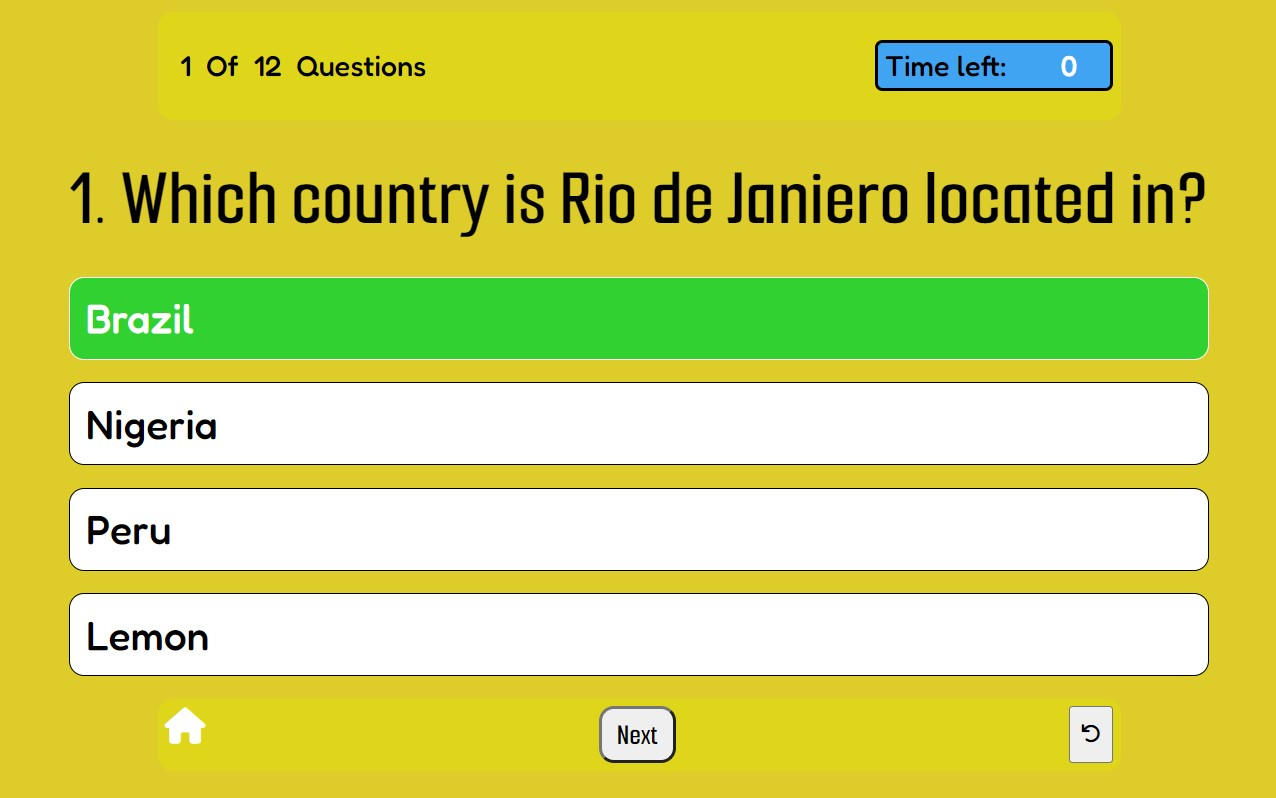
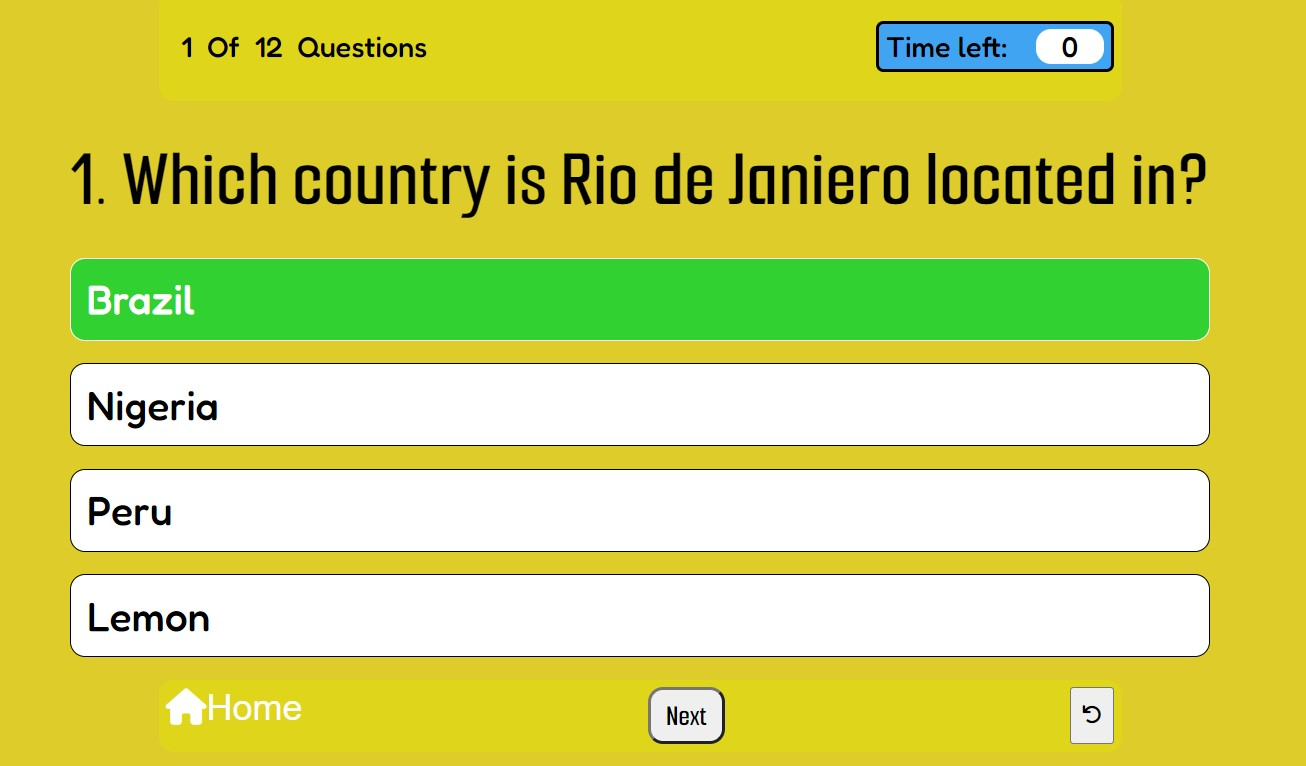
Pushing readME

diff --git a/game.html b/game.html
@@ -35,17 +35,17 @@
             </div>
         </div>
         <div class="home-next-restart">
-            <a href="index.html"><i class="fa-solid fa-house"></i></a>
+            <a href="index.html" aria-label="Go back to home page"><i class="fa-solid fa-house"></i>Home</a>
             <span>
                 <button class="next-button">Next</button>
             </span>
-            <button alt="Arrow going anti-clockwise, to restart the game" class="restart-button"><i class="fa-solid fa-arrow-rotate-left"></i></button>
+            <button aria-label="Arrow going anti-clockwise, to restart the game" class="restart-button"><i class="fa-solid fa-arrow-rotate-left"></i></button>
         </div>
     </div>
 
     <!-- Results box-->
     <div class="result-box">
-        <div class="icon" alt="Small house display, take user back to home page">
+        <div class="icon">
             <i class="fas fa-crown"></i>
         </div>
         <div class="complete-text">You've Completed the quiz!</div>

diff --git a/assets/css/styles.css b/assets/css/styles.css
@@ -175,9 +175,10 @@ a {
     padding: 5px 10px;
     display: none;
     font-family: Smooch Sans;
+    cursor: pointer;
 }
 
-#restart-button:hover {
+.restart-button:hover {
     cursor: pointer;
 }
 
@@ -289,6 +290,7 @@ a {
 .end-game-buttons button:hover {
     background-color: black;
     color: white;
+    cursor: pointer;
 }
 
 /*Responsive design for screen sizes*/

diff --git a/README.md b/README.md
@@ -1,46 +1,83 @@
-# Flags Of South America
+# Countries Of South America
 
-Flags of South America will test people's knowledge on countries of South America. In the game there are 12 points to collect, 12 countries in South America, and you will earn these points by getting the answers right. When you start playing the game a flag will appear that you will have to guess, if you get the answer right, you will earn a point and will be able to move on to the next question, the goal is to get as many points as you can. There will be a timer, so users can test themselves by seeing who can finish the game the quickest with the highest points.
+'Countries of South America' will test people's knowledge on countries of South America. In the game there are 12 points to collect, 12 countries in South America, and you will earn these points by getting the answers right. As soon as you start playing the game a quesition that relates to the answer/country will appear, you have to guess which country we are describing or asking you about. If you get the answer right, you will earn a point and will be able to move on to the next question, the goal is to get as many points as you can. There will be a timer, so users can test themselves by seeing who can finish the game the quickest with the highest points.
+
+![Am I responsive picture](assets/images/amiresponsive-country-game.jpeg)
 
 ## Objective
-This site is targeted to people who love to test their knowledge, have an interest in geography and especially those who have an interest in the South American countries.
+<li>This site is targeted to people who love to test their knowledge, have an interest in geography and especially those who have an interest in the South American countries.</li>
 
-You can view the live link here - "add website link here when completed"
-
-"Input Am I responsive picture of the game"
+<li>You can view the live link here - "add website link here when completed"</li>
 
 ## Features
 <hr>
 
 ### <u>Home page</u>
+<ul>
+<li>In this page you have the name of the game in red, this will instantly give the user an idea of what the game is about. There will be an input where users can enter their names to be able to play the game and record there scores,  there will be a 'Play Game' button to be able to start the game.</li> 
+<li>Below these features there will be a 'Rules of The Game', if you press on this button a box with the rules will appear on the screen, this will contain the rules and explain to users how the game works, how earn points and how to complete the game, and if they want, they can also quit or restart the game.<li>
 
-In this page you have the name of the game in red, this will instantly give the user an idea of what the game is about. There will be an input where users can enter their names to be able to play the game and record there scores,  there will be a 'Play Game' button to be able to start the game. 
-Below these features there will be a 'Rules of The Game' where users will be able to navigate to the rules section. They will be able to see how they will earn points, the different types of features that will be within the game, for instance the 30 second timer, there will be a sound toggle button where users can have a game with sound or no sound at all. This area will tell them exactly what these features will do.
-The next feature is the highscore button, this button will take users to see all the highscores within the game, users need to play in order to build highscores, the first time they select the button there will be no content.
-
-<img src="assets/images/home-screen-phone.jpeg" height="400" width="200"/>
-
+![Home page appearance on a laptop](assets/images/laptop-main-page.jpg)
+![Home page appearance on a mobile](assets/images/home-page-mobile.jpg)
 
 ### <u>Within the Game</u>
 
-In this area there will be a score counter, a timer and a hints section. The score will keep track of how many correct answer the user has got, each correct answer will cause the score to increment by one.
+<li>In this area the game will keep track of what question the user is on, there will be a timer that will make it feel like quiz, this will add more pressure to the game, it is going to be a 15 second timer, when the timer hits 0 the correct answer will be revealed, options will be disabled and user will have to move on to the next question.</li>
 
-The timer will be there to make it feel like and actual quiz game, add more pressure to the game, it is going to be a 30 second timer and at the end of the game it will tell the users exactly how long it took them to complete the game. Users can challange themselves and try and beat their previous score AND time.
+![](assets/images/question-timer.jpg)
 
-The third feature in this little assist bar will be the hints button, this will provide a small hint to be able to point users to the correct answer, for example, if the answer was Argentina, a hint will be related to Lionel Messi, and hopefully these lil hints can point users to the correct answer.
+<li>In this area there is going to be the question AND the options that users will be able to select from, users will have to read the question and guess which country they are being asked about or which country is being described.</li>
+<li>Users can hover over the question, the cursor will become a pointer on the options they can select, the color of he boxes will also change.</li>
 
+![Questions and options](assets/images/question-area-laptop.jpg)
+
+
+<li>After users select their answer, the options will be disabled and they can only select  home, restart or the next question. Pointer will get disabled.</li> 
+<li>If the user select the correct answer then their option will turn green, next button will appear</li>
+
+![Users option turns green](assets/images/select-correct-answer.jpg)
+
+
+<li>This is the mobile verison of the game, when answer is correct it turns green, will act the same as on the laptop</li>
+
+![QUestions and options of the game on a mbile screen](assets/images/game-mobile-version.jpg)
+
+<li>If users select the wrong answer then their answer will turn red, and the correct answer will appear green</li>
+
+![User option turns red when wrong and corret answer turns green](assets/images/wrong-answer-laptop.jpg)
+
+<li>If user does not manage to beat the time then options will get disabled and correct answer will turn green</li>
+
+![Correct answer turns green automatically when user cannot answer withing 15 secons](assets/images/time-run-out-laptop.jpg)
+
+
+<li>In this part of the game there will be a Home button, a next question button and the Restart button.</li>
+<li>The home button feature will be there incase the user wants to quit the game or to look at the rules again</li>
+<li>The 'next' question button will only appear after the user has selected an answer, they won't be able to skip the question, this button will move on to the next question.</li>
+<li>The restart feature will restart the game from question one, this will not take the user to the home screen
+</ul>
+
+![Here will a nav bar with a home button, next button and restart button](assets/images/home-next-retart-bar-laptop.jpg)
+
+<li>After question is selected next button will appear</li>
+
+![Here will a nav bar with a home button, next button and restart button](assets/images/home-next-retart-bar-laptop2.jpg)
+
+<li>When all question have been answered a results box will appear on top of the questions with how many correct answers you got, and then two buttons at the bottom, one to go to the home page or to restart the game and play the game again</li>
+
+![Results box with number of correct answers users scored](assets/images/results-box-end-game.jpg)
+
+<li>This is how the results will appear on a mobile device</li>
+
+![Results box with number of correct answers users scored on mobile device](assets/images/results-box-mobile.jpg)
+
+## Wireframes 
+<img src="assets/images/home-screen-phone.jpeg" height="400" width="200"/>
 ![User assist bar](assets/images/users-assist-bar.png)
-
-In this area of the game a random flag will be generated out of the 12 countries within South America, and 4 answers will also be outputed, only one will be the answer. When users select the correct answer the score will update by one, the users answer will turn green and a 'Next' button to move on to the next question will appear. If users get the answer wrong then THEIR answer will turn red and the correct answer will appear green. The 'Next'  button will appear.
-
 <img src="assets/images/game-section-correct.jpeg" height="400" width="400"/> <img src="assets/images/game-section-incorrect.jpeg" height="400" width="400"/>
-
-In this part of the game there will be a Home button, a next question button and the Restart button.
-The home button feature will be there incase the user wants to quit, change their name, check the rules again, look at highscores to beat or to toggle the sound of the game.
-The next question button will only appear after the user has selected an answer, they won't be able to skip the question, this button will move on to the next question.
-The restart feature will restart the game from question one, this will not take the user to the home screen
-
 ![home-restart-next](assets/images/home-restart-next.jpeg)
+
+
 
 ## Design 
 <hr>
@@ -62,6 +99,13 @@ The restart feature will restart the game from question one, this will not take 
 
 ## Testing
 <hr>
+
+<h1>Browser Compatability</h1>
+<ul>Testing done on these search engines, website opened as it should and executed all questions and features without issues
+    <li>Chrome</li>
+    <li>Safari</li>
+    <li>Internet Explorer</li>
+</ul>
 <ul>
     <li></li>
     <li></li>
